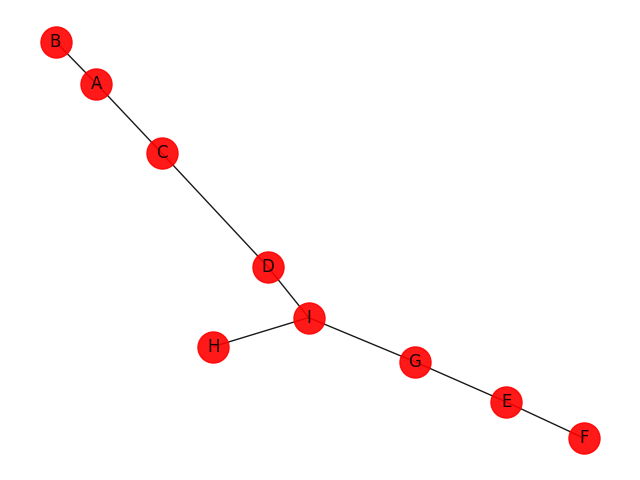
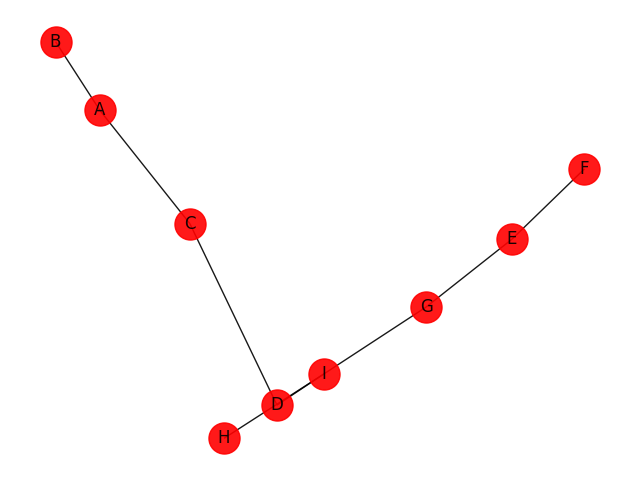
Q2 image (in progress)

diff --git a/Lab3-Algo-LoGP.py b/Lab3-Algo-LoGP.py
@@ -190,6 +190,21 @@ def scc(graph):
         out[lead] = list(vertex)
     return out
 
+# Create graph for question 2.b
+def create_meta_graph(Dir_Edges, post_scc):
+    meta_graph = defaultdict(list)
+    scc_nodes = {} 
+    for leader, nodes in post_scc.items():
+        scc_nodes[leader] = nodes[0]  # Choose a representative node for each SCC
+
+    for u, v in Dir_Edges.items():
+        leader_u = next((leader for leader, nodes in post_scc.items() if u in nodes), None)
+        for dest in v:
+            leader_v = next((leader for leader, nodes in post_scc.items() if dest in nodes), None)
+            if leader_u != leader_v:  # Avoid edges within the same SCC
+                meta_graph[scc_nodes[leader_u]].append(scc_nodes[leader_v]) 
+    return meta_graph
+
 # Dfs for question 2.c to represent the meta graph as a DAG, linearized in its topological order.
 def dfs_tpl_order(graph,start,path,n_holder):
     path = path + [start]
@@ -284,6 +299,18 @@ def dirDigraph():
     #Part b is on Paper (Draw Meta Graph of Strong Components)
     #Use output of Part a to draw graph (Like in Chapter 3 Slides near end)
     #(May be no code)
+    meta_graph = create_meta_graph(Dir_Edges, post_scc)
+
+    #Create Image of MST
+    pos1 = nx.spring_layout(meta_graph)
+    plt.figure()
+    nx.draw(
+       meta_graph, pos1, edge_color='black', width=1, linewidths=1,
+       node_size=500, node_color='red', alpha=0.9,
+       labels={node: node for node in meta_graph.nodes()}
+    )
+    plt.savefig('spt_q2p2.png')
+    plt.show()
 
     #Code for Part c (Represent the drawn graph as a DAG in topological order)
     #Code also in Chapter 3 Sample Code Folder
